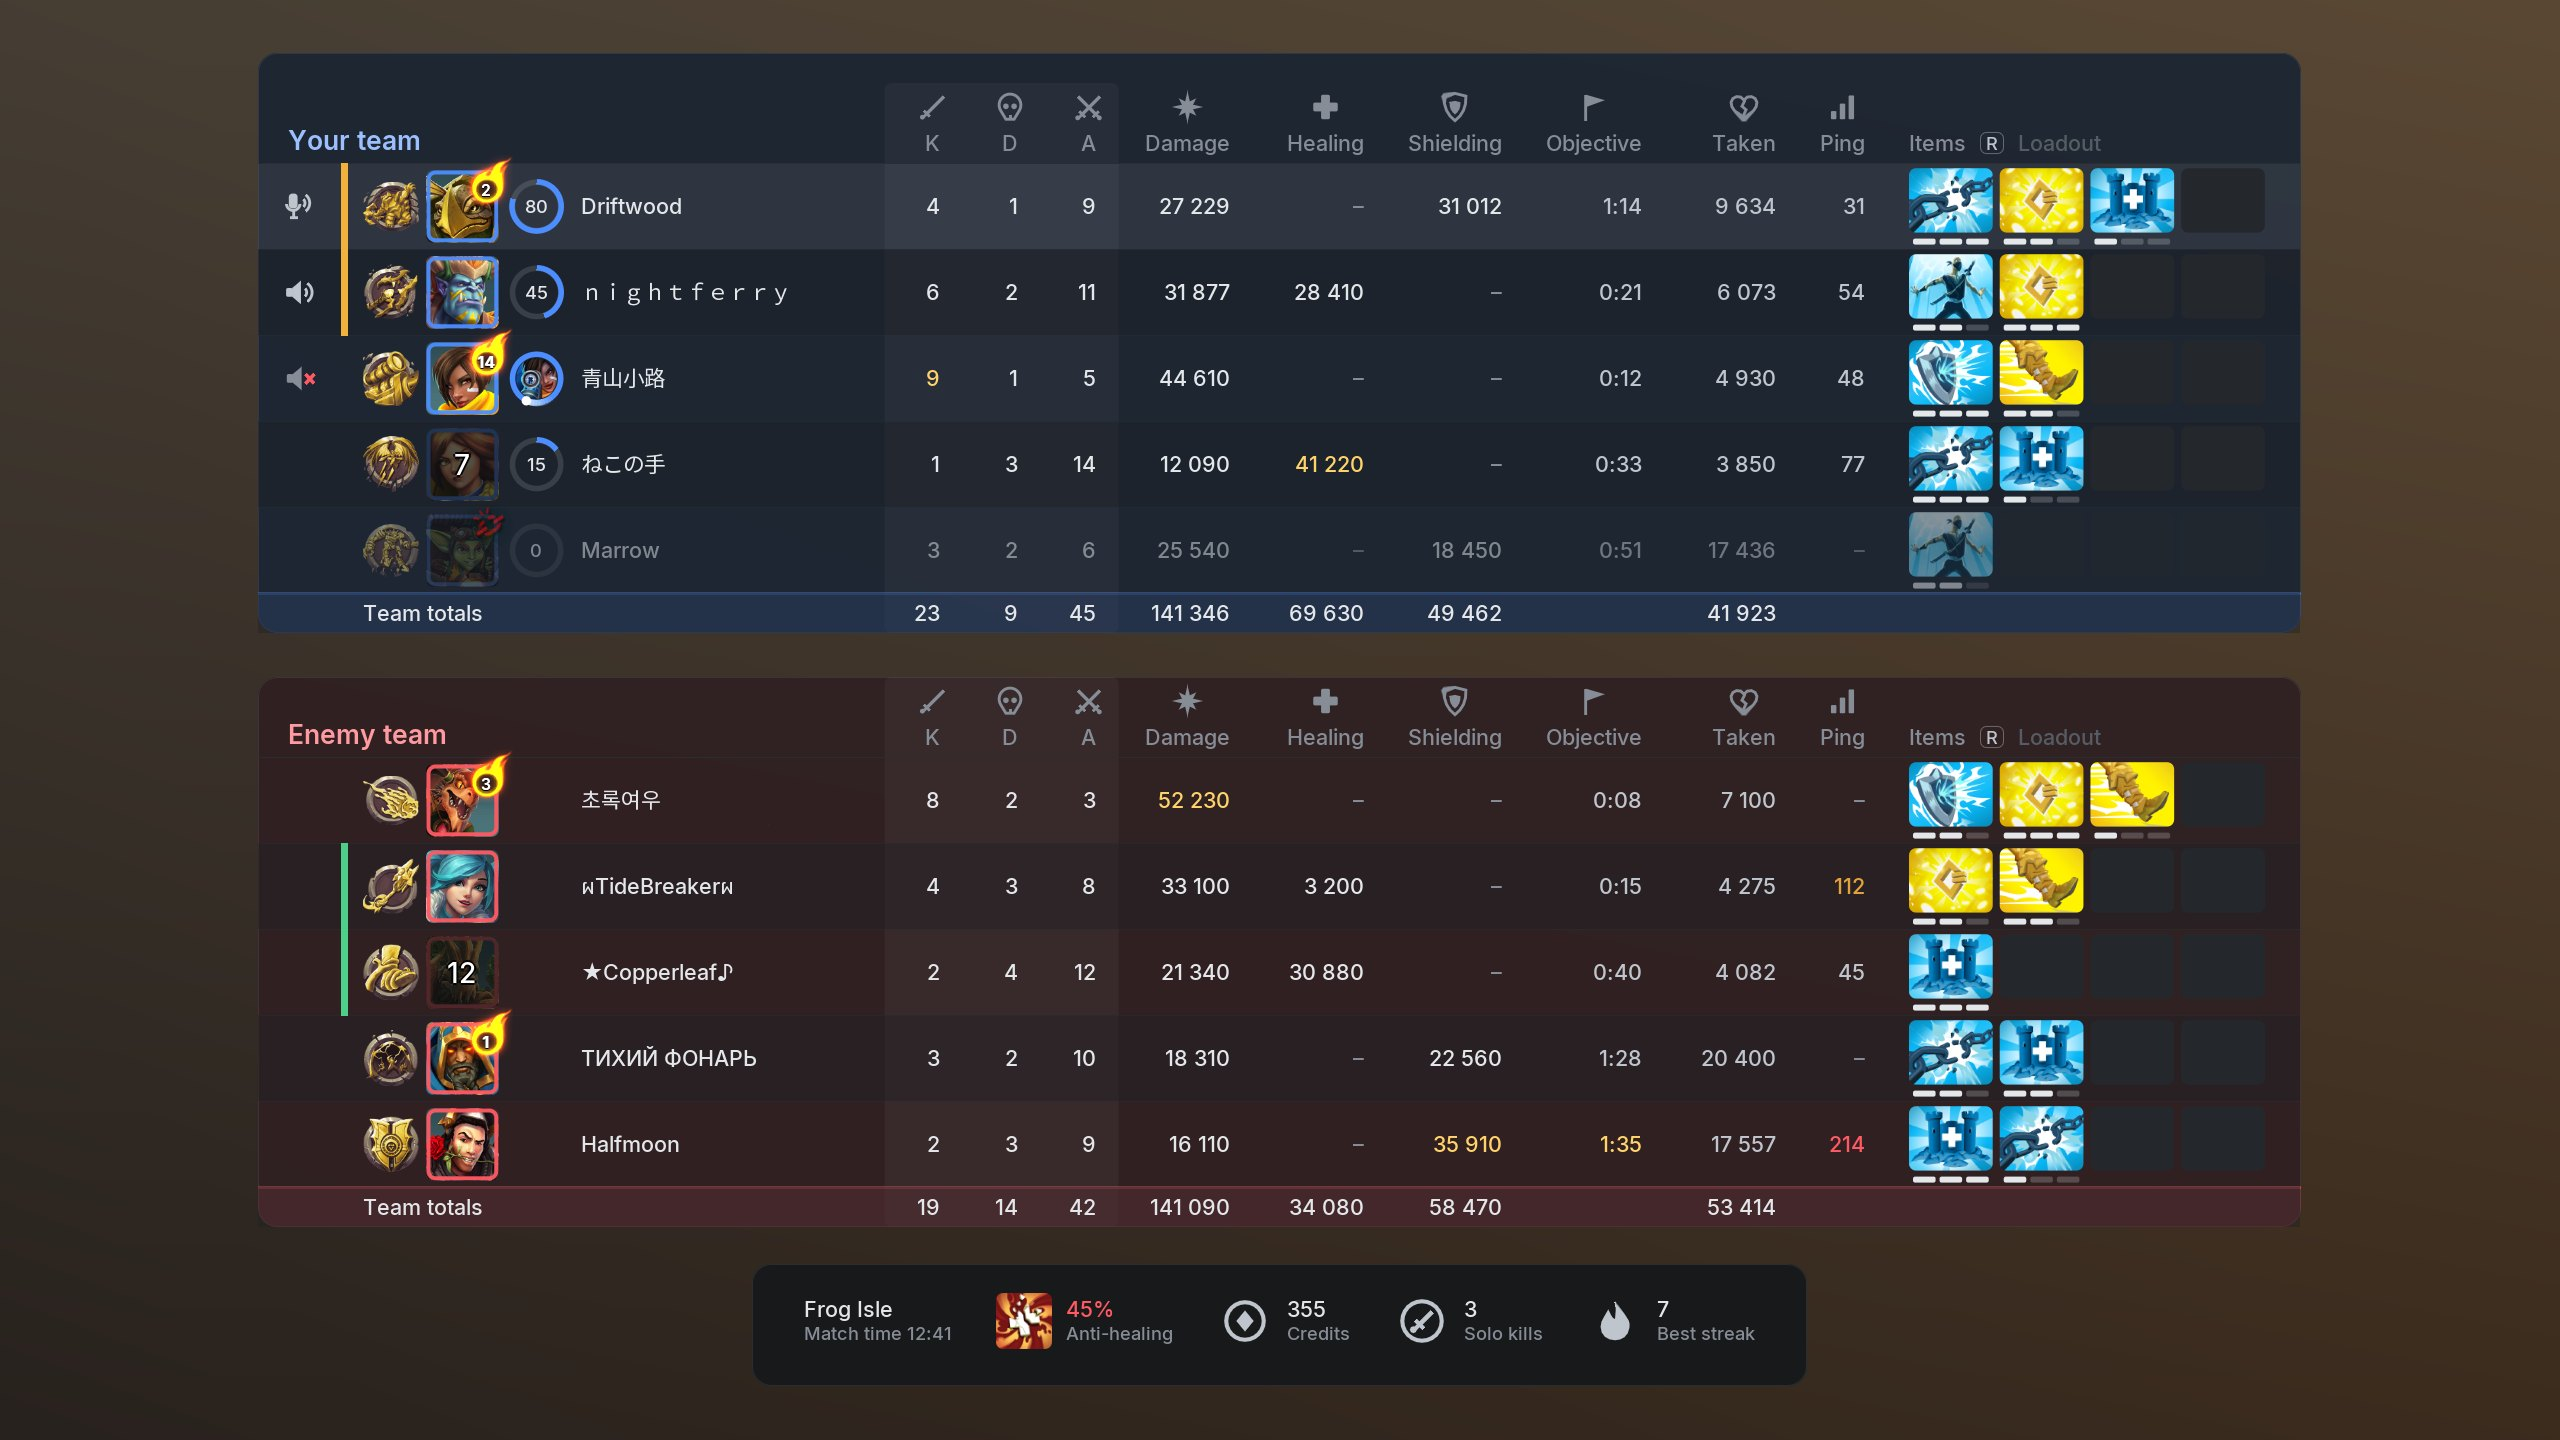
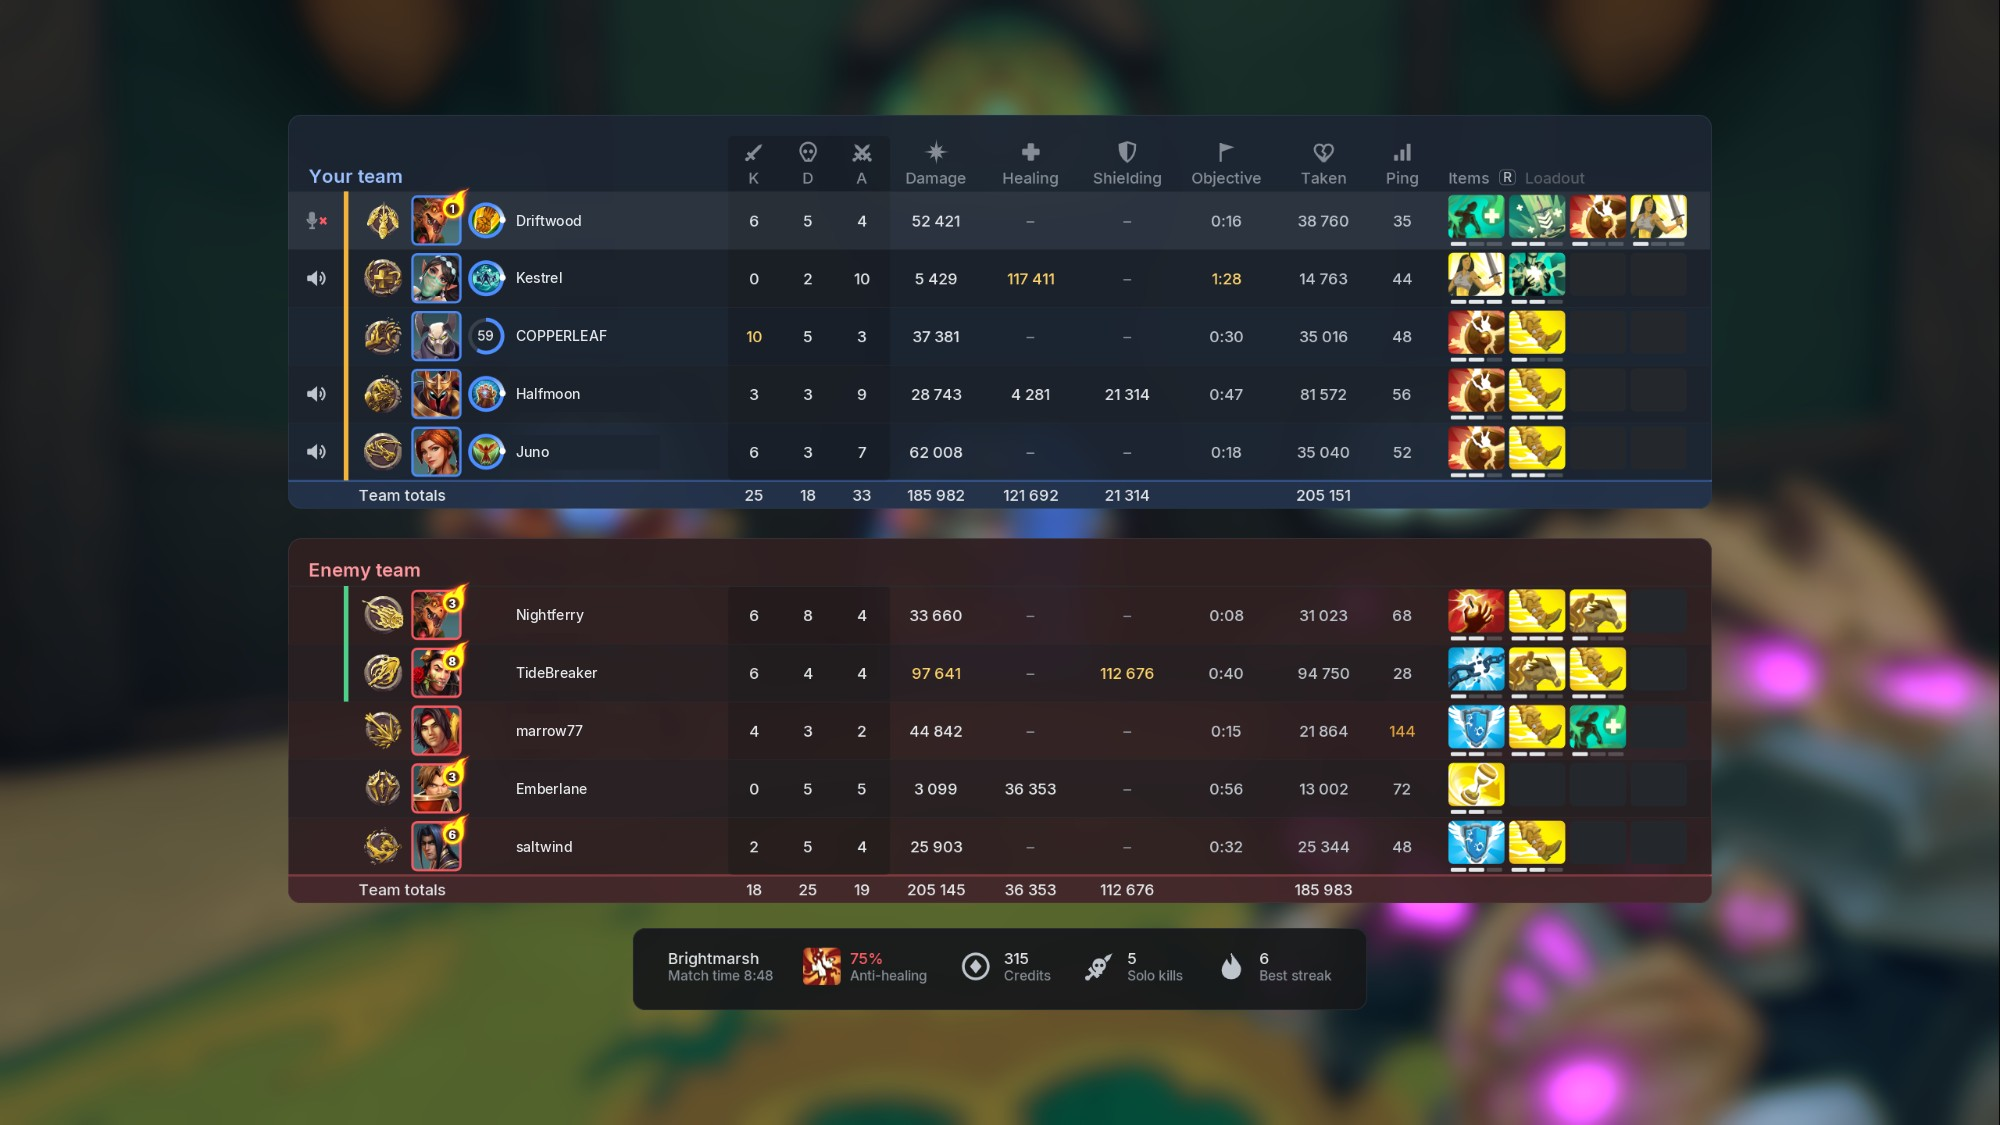
The hero: the scoreboard in a real match, player names invented

diff --git a/index.html b/index.html
@@ -66,11 +66,11 @@
       </div>
 
       <!-- MEDIA (owner): the strong visual above the fold: the RealmBoard scoreboard as hero.jpg or hero.png in site/media/
-           (a 16:9 picture), or a loop. The caption under the figure (.hero__caption) says it is an offline render with
-           sample data; change it if the picture is a real capture. Whatever goes in must show invented or no player
-           names: the offline renderer's scenes carry real players' names. Until a file loads the slot shows the crest;
-           ?slots in the address shows the file names instead. -->
-      <figure class="slot slot--hero" data-media="media/hero.mp4 media/hero.webm media/hero.gif media/hero.png media/hero.jpg" data-alt="RealmBoard's scoreboard, rendered offline with sample data: both teams in one table with a symbol for each stat, team totals, items and a summary bar.">
+           (a 16:9 picture), or a loop. Today a capture of a real match with the ten player names painted over by invented
+           ones; the caption under the figure (.hero__caption) says so. Whatever goes in must show invented or no player
+           names: a live capture shows real players', and so do the offline renderer's scenes. Until a file loads the
+           slot shows the crest; ?slots in the address shows the file names instead. -->
+      <figure class="slot slot--hero" data-media="media/hero.mp4 media/hero.webm media/hero.gif media/hero.png media/hero.jpg" data-alt="RealmBoard's scoreboard in a match on Brightmarsh: both teams in one table with a symbol for each stat, the best values in gold, team totals, items and a summary bar, the game blurred behind it.">
         <div class="slot__brand" aria-hidden="true">
           <svg class="crest crest--hero" viewBox="0 0 64 64" width="144" height="144">
             <use href="#crest-steel"/>
@@ -85,7 +85,7 @@
         </div>
       </figure>
 
-      <p class="hero__caption">RealmBoard's scoreboard, rendered offline with sample data.</p>
+      <p class="hero__caption">RealmBoard's scoreboard in a match. The player names are invented.</p>
 
       <nav class="tiles" aria-label="The mods">
         <a href="#realmboard"><svg class="icon" width="20" height="20" viewBox="0 0 16 16" aria-hidden="true"><use href="#icon-board"/></svg><span class="tiles__name">RealmBoard</span><span class="tiles__what">Scoreboard, voice</span></a>
